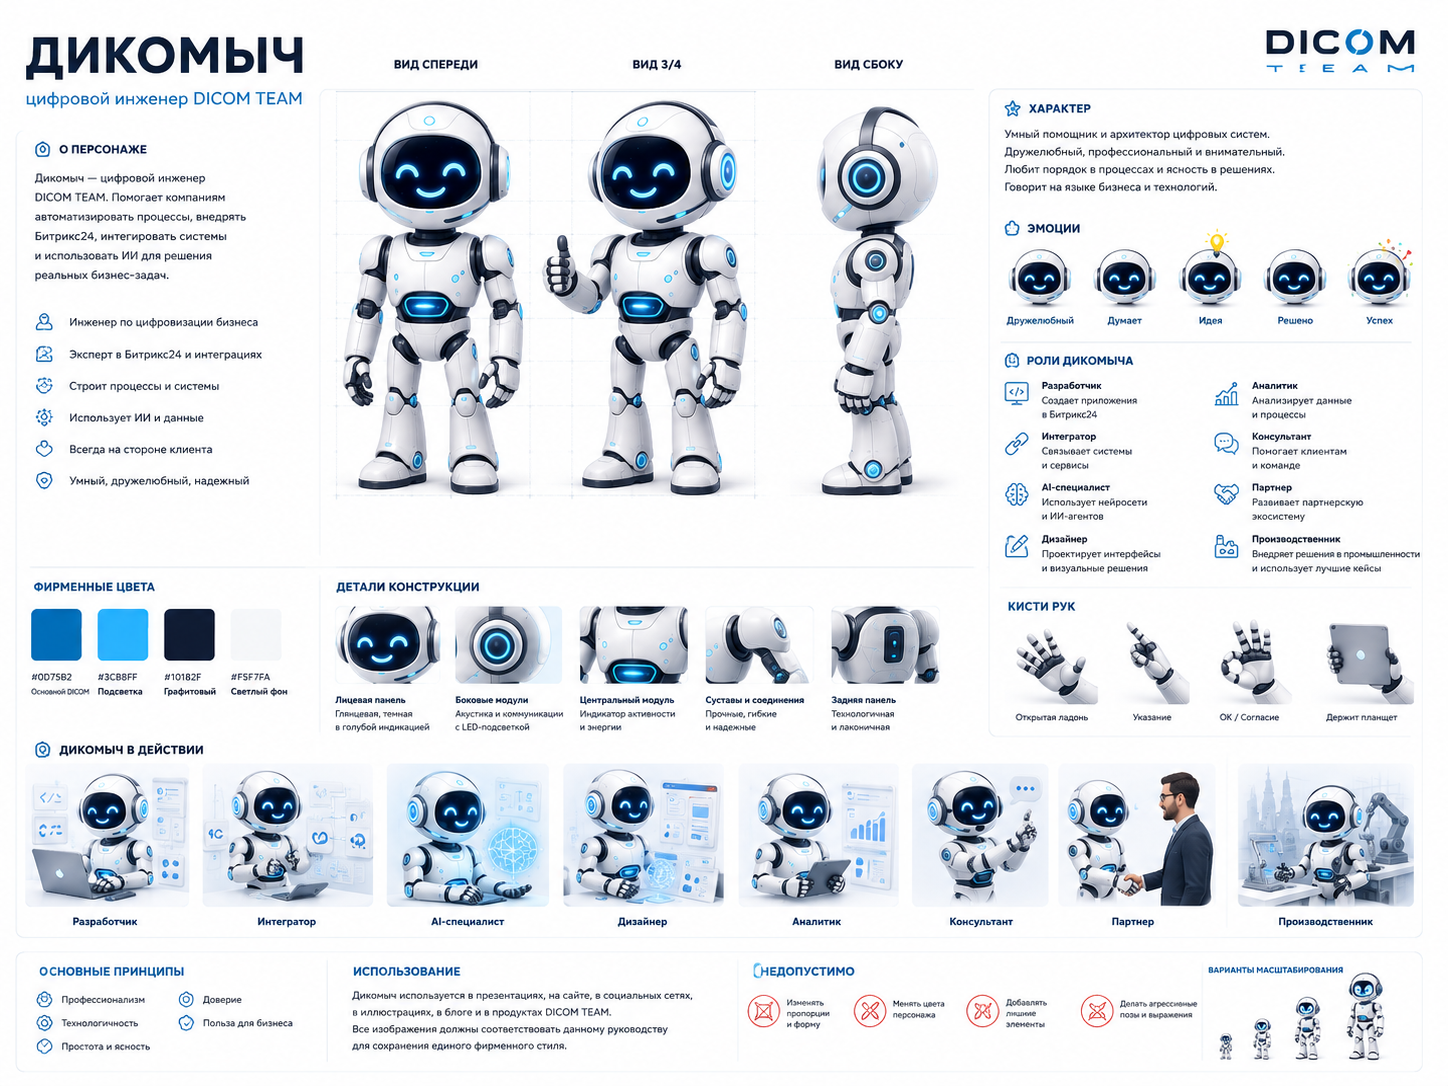
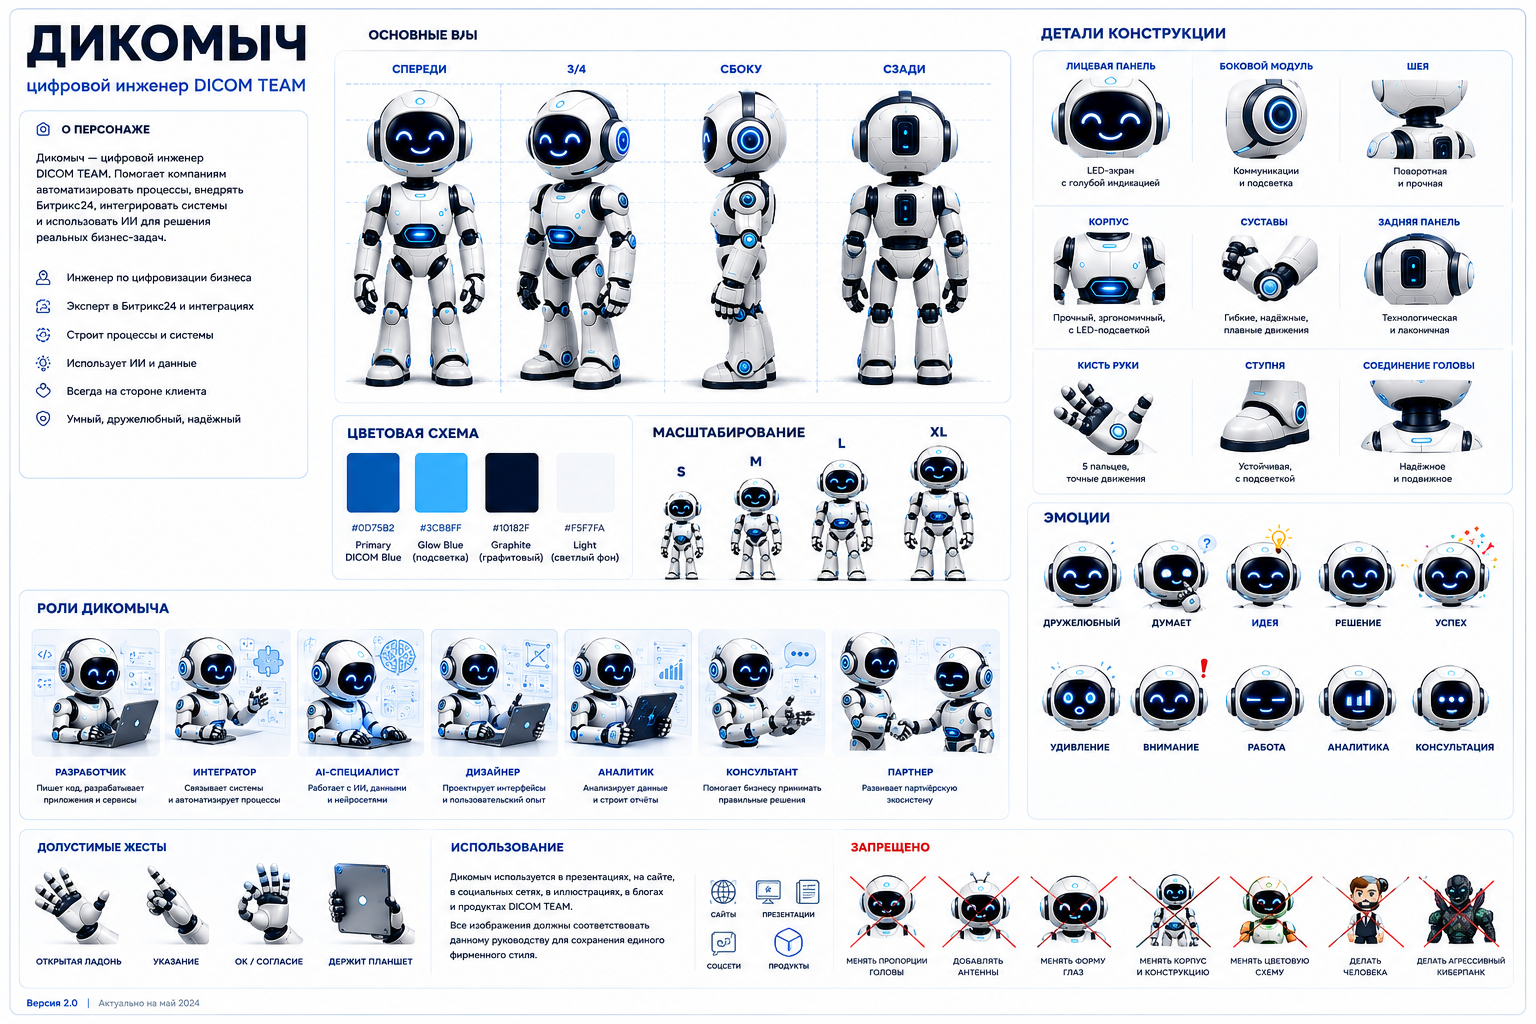
Dikomych v2.0: final character sheet + emotions, gestures, scaling

diff --git a/colors/tokens.css b/colors/tokens.css
@@ -29,4 +29,10 @@
 
   /* Направление: Дизайн */
   --c-dir-design:       #BE185D;
+
+  /* Маскот — Дикомыч */
+  --c-mascot-main:      #0D75B2;  /* корпус (= --c-accent) */
+  --c-mascot-glow:      #3CB8FF;  /* глаза, подсветка, акценты */
+  --c-mascot-graphite:  #10182F;  /* контур, тёмные детали */
+  --c-mascot-light:     #F5F7FA;  /* лицо-дисплей, светлые части */
 }

diff --git a/mascot/dikomych.md b/mascot/dikomych.md
@@ -1,6 +1,6 @@
 # Дикомыч — официальный маскот DICOM TEAM
 
-**Версия:** 1.0
+**Версия:** 2.0
 
 ![Дикомыч — лист персонажа](assets/dikomych-character-sheet.png)
 
@@ -56,7 +56,21 @@
 | Графитовый | `#10182F` | контур, тёмные детали корпуса |
 | Светлый фон | `#F5F7FA` | лицо-дисплей, светлые части, фон |
 
-**Детали конструкции:** лицевая панель с голубой индикацией; боковые модули (акустика с LED-подсветкой); центральный модуль (индикатор активности и энергии); прочные суставы и соединения; технологичная и лаконичная задняя панель.
+**Детали конструкции:** лицевая панель с голубой индикацией; боковые модули (акустика с LED-подсветкой); центральный модуль (индикатор активности и энергии); прочные суставы и соединения; технологичная и лаконичная задняя панель; голова на гибком соединении.
+
+**Виды:** спереди, 3/4, сбоку, сзади (см. лист персонажа).
+
+## Эмоции
+
+Канонический набор эмоций (10): дружелюбный, думает, идея, решение, успех, удивление, внимание, работа, аналитика, консультация. Эмоция передаётся выражением лица-дисплея и позой — образ персонажа при этом не меняется. Негативные эмоции как основной образ не используем.
+
+## Жесты
+
+Допустимые жесты: открытая ладонь (приветствие), указание, OK / согласие, держит планшет. Жесты — дружелюбные и рабочие, без агрессии.
+
+## Масштабирование
+
+Персонаж сохраняет узнаваемость в размерах **S / M / L / XL**: на маленьких размерах убираем мелкие детали корпуса, оставляя силуэт, голову и глаза. Пропорции (крупная голова, компактное тело) не меняем ни на одном размере.
 
 ## Недопустимые изменения
 

diff --git a/colors/palette.md b/colors/palette.md
@@ -32,6 +32,17 @@
 
 Подробнее о применении и `.dir-*` скоупах — см. [`../directions/directions.md`](../directions/directions.md).
 
+## Цвета маскота (Дикомыч)
+
+Палитра персонажа согласована с брендом — основной цвет совпадает с `--c-accent`. Полная спецификация — [`../mascot/dikomych.md`](../mascot/dikomych.md).
+
+| Роль | HEX | Назначение |
+|---|---|---|
+| Основной DICOM | `#0D75B2` | корпус (= `--c-accent`) |
+| Подсветка | `#3CB8FF` | глаза, свечения, индикаторы, акценты |
+| Графитовый | `#10182F` | контур, тёмные детали |
+| Светлый фон | `#F5F7FA` | лицо-дисплей, светлые части |
+
 ## Правила
 
 1. Внутри `.dir-*` блока пиши `var(--c-accent)`, а не `var(--c-dir-bitrix)` — иначе цвет не подхватится при смене направления.

diff --git a/CHANGELOG.md b/CHANGELOG.md
@@ -9,7 +9,8 @@
 - Цветовые токены (CSS + JSON) из `dicom-design.css`.
 - Канонические цифры и boilerplate (синхронизировано с `/about/manifest/` от 01.06.2026).
 - `imagery/visual-language.md` — правила для изображений (hero: квадрат/центр; обложки: свободная левая зона, блюр слева; инженерный стиль, без перегруженности).
-- `mascot/dikomych.md` — спецификация маскота Дикомыч (v1.0): характер, визуальный образ, правила использования.
+- `mascot/dikomych.md` — спецификация маскота Дикомыч (v2.0): характер, визуальный образ, цвета, эмоции, жесты, масштабирование, правила использования.
+- `mascot/assets/dikomych-character-sheet.png` — финальный лист персонажа (v2.0).
 
 ### TODO
 - Положить файлы логотипа (SVG/PNG) в `logo/`.